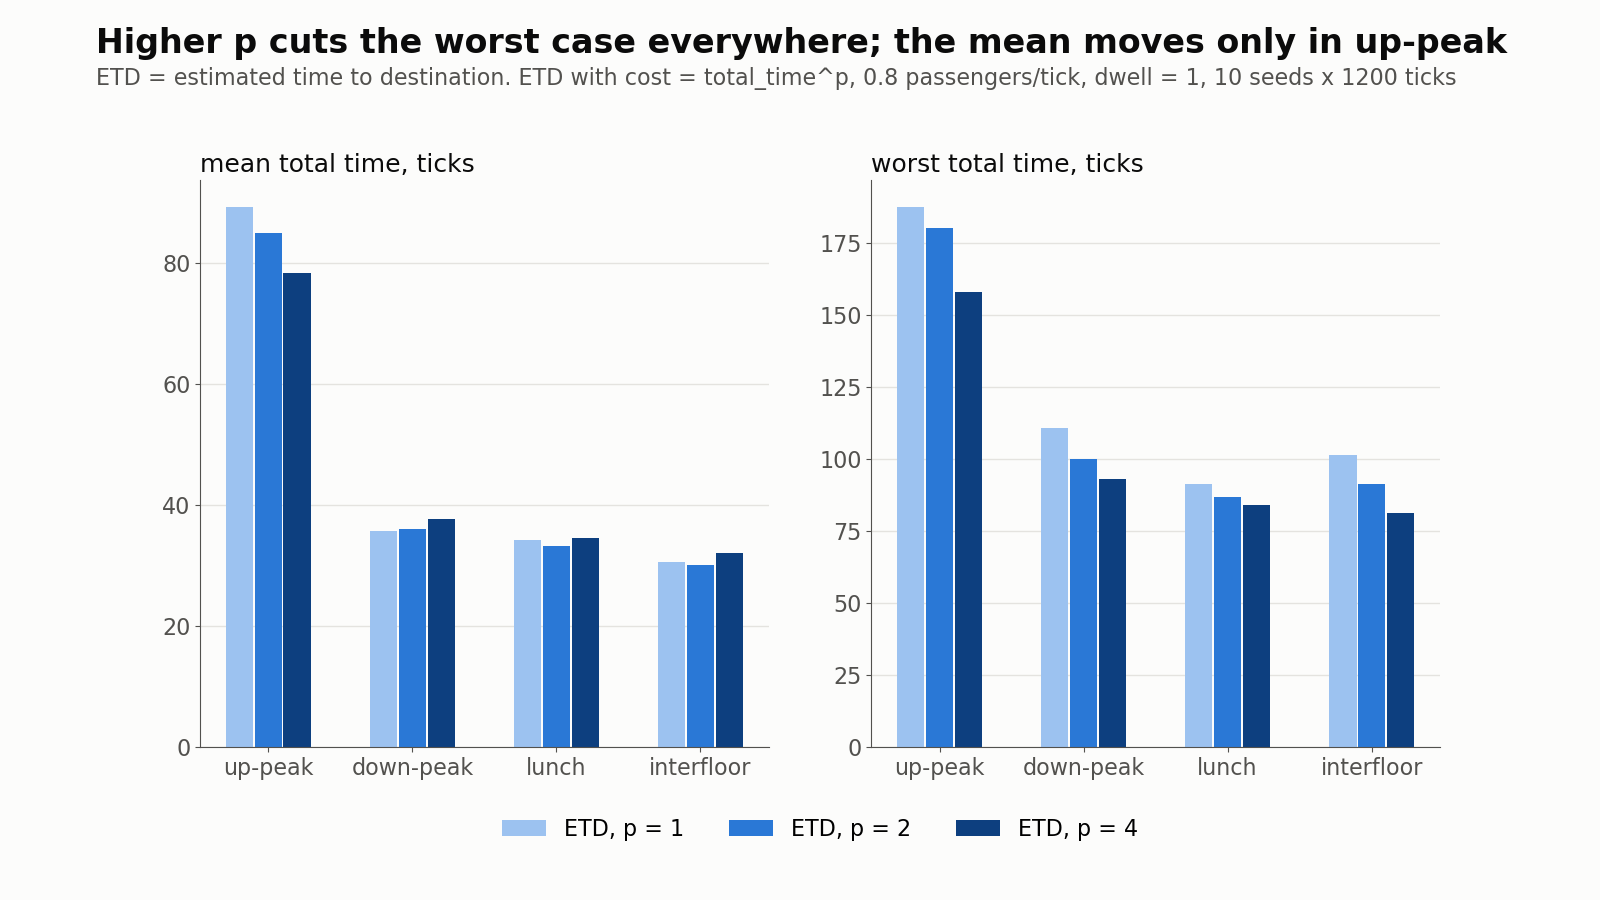
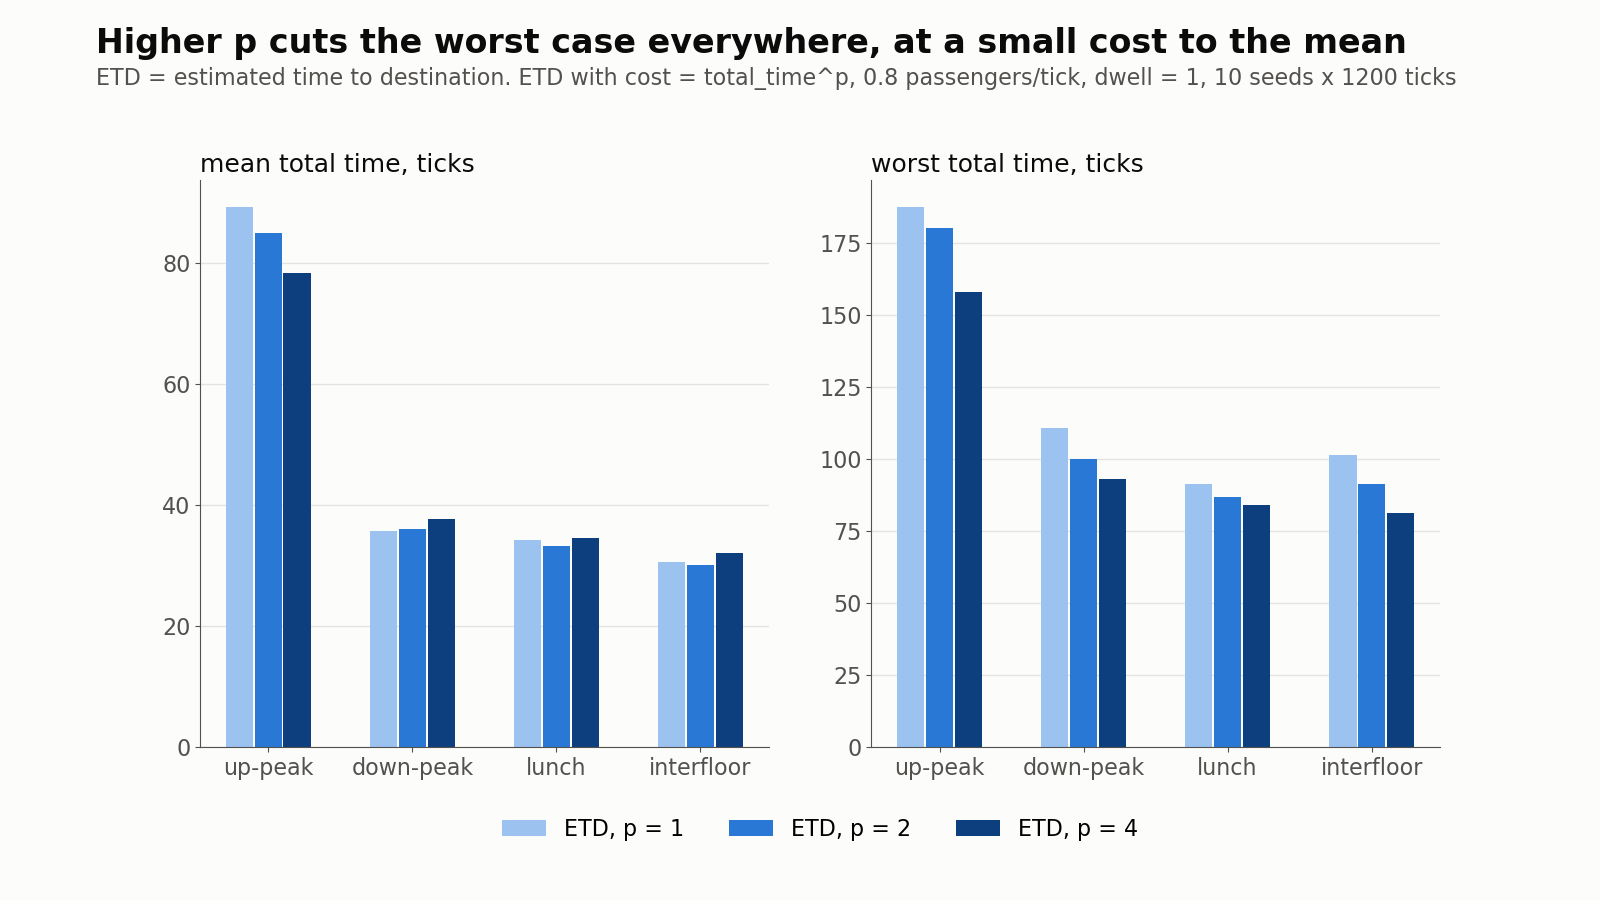
Tighten README claims and state the traffic assumptions

Changed region(s): [[0.5312, 0.0311, 0.9375, 0.0622]]

diff --git a/scripts/charts.py b/scripts/charts.py
@@ -154,7 +154,7 @@ def fairness():
         ax.set_title(label + ", ticks", loc="left", color=INK)
         ax.grid(axis="x", visible=False)
     axes[0].legend(loc="upper center", bbox_to_anchor=(1.09, -0.09), ncol=3)
-    save(fig, "fairness.png", "Higher p cuts the worst case everywhere; the mean moves only in up-peak",
+    save(fig, "fairness.png", "Higher p cuts the worst case everywhere, at a small cost to the mean",
          ETD_NOTE + "ETD with cost = total_time^p, 0.8 passengers/tick, dwell = 1, 10 seeds x 1200 ticks")
 
 

diff --git a/README.md b/README.md
@@ -2,7 +2,7 @@
 
 A discrete-time simulation of a destination-dispatch elevator system. Each passenger is assigned to a car when they call, and the assignment never changes. Time moves one floor per tick, and the simulation only sees requests whose time has come.
 
-The default scheduler is ETD (estimated time to destination). It gives the lowest average trip time of the four dispatchers I tried, in every traffic pattern, until the building nears full capacity.
+The default scheduler is ETD (estimated time to destination). In my simulations it gives the lowest average trip time of the four dispatchers I tried in every traffic pattern, except a heavy morning rush where stops take time or the building is near capacity.
 
 Python 3.10+, standard library only. Tests use pytest; the charts script uses matplotlib.
 
@@ -49,7 +49,7 @@ Each tick (`engine.py`): assign new requests → at each car, riders get off, th
 
 ## Results
 
-30 floors, 4 cars, capacity 10; 10 seeds × 1200 ticks. Mean total time in ticks at 0.8 passengers per tick:
+30 floors, 4 cars, capacity 10; 10 seeds × 1200 ticks. Mean total time in ticks at 0.8 passengers per tick, with free stops (dwell 0):
 
 | Scenario | Round robin | Nearest car | Zone | ETD |
 |---|---|---|---|---|
@@ -60,11 +60,11 @@ Each tick (`engine.py`): assign new requests → at each car, riders get off, th
 
 ![dispatchers](docs/charts/algorithms.png)
 
-**Where ETD loses: the morning rush.** When each stop costs a tick, ETD spreads lobby passengers across every car, so every car stops at many floors, and the queue grows (up-peak, dwell 1: ETD 85, zone 58). Making cars 2-3 express to floors 16-30 fixes it (57). The same happens with free stops near saturation (1.0 per tick).
+**Where ETD loses: the morning rush.** In the simulated up-peak with one-tick stops, ETD's queue keeps growing (ETD 85, zone 58). ETD places each lobby passenger wherever is best for them right now, so every car gets a mix of destinations: an ETD car leaving the lobby stops at about 8 floors and climbs to floor 28 on average, against 4-5 floors and floor 19 for a zoned car. Longer round trips mean each car carries fewer people per minute. Making cars 2-3 express to floors 16-30 brings ETD level with zoning (57), but costs 4-5 ticks at lunch, when trips go both ways. With free stops the same thing happens at a higher load, 1.0 per tick (`docs/charts/load_sweep.png`, 3 seeds × 600 ticks). The mechanism is general; the load at which it kicks in depends on my synthetic traffic.
 
 ![overload](docs/charts/overload.png)
 
-**Fairness.** With one-tick stops, raising the cost exponent from 1 to 4 cuts the worst trip by 16-20% in every pattern, without making the mean worse.
+**Fairness.** With one-tick stops, raising the cost exponent from 1 to 4 cuts the worst trip by 8-20%, and the mean rises by up to 6%. In the overloaded up-peak both improve. With free stops the exponent makes little difference. I kept p = 2 as a middle ground.
 
 ![fairness](docs/charts/fairness.png)
 
@@ -73,16 +73,18 @@ Full tables are in `results/`; more charts are in `docs/charts/`.
 ## Assumptions
 
 - Floors are 1 to n; floor 1 is the lobby. Cars start at floor 1.
-- One tick is one floor. Stops are free by default (the brief doesn't say otherwise); `--dwell` adds time per stop, and every experiment is also run at dwell 1.
+- One tick is one floor. Stops are free by default, because the brief only defines travel time; `--dwell` adds time per stop, and every experiment is also run at dwell 1.
 - In a tick a car drops off, picks a direction, boards, then moves. The log records the floor before the move.
 - Passengers board only their assigned car, only when it's going their way, first come first served.
 - Express cars only get trips where they serve both floors.
 - Bad input (floor out of range, source = dest, duplicate id, negative time) is rejected up front.
-- Synthetic traffic uses Poisson arrivals and fixed trip mixes per pattern.
+- Synthetic traffic uses Poisson arrivals and trip mixes I chose (e.g. up-peak: 85% lobby to upper floors, 10% between upper floors, 5% down to the lobby). They are plausible, not measured.
+- One building is tested: 30 floors, 4 cars, capacity 10. Other sizes may rank the dispatchers differently.
+- A passenger becomes overdue after 3 × floors ticks, about one and a half round trips of an empty car. That threshold is a judgement call; it's configurable.
 
 ## Trade-offs
 
-- **ETD** optimises the brief's objective directly, but it is greedy: it can't see future arrivals, which costs capacity near saturation.
+- **ETD** optimises the brief's objective (squared, to favour the worst trips), but it is greedy: it can't see future arrivals, which costs capacity near saturation.
 - **LOOK** leaves little to choose once riders are aboard. A look-ahead router I tried gained 1-4% and nothing on top of ETD, so I removed it.
 - **Forecasts reuse the engine's code**, so they can't drift from the real rules, at the cost of speed.
 - **The reserved seat** costs one seat, only while someone is overdue. My first version, which let only the overdue passenger board, wrecked throughput.
@@ -91,7 +93,7 @@ Full tables are in `results/`; more charts are in `docs/charts/`.
 
 - ETD slows down when one car has a long queue (each forecast replays it tick by tick).
 - Idle cars stay where they stop; there is no parking.
-- Constant speed, fixed door time, synthetic traffic: good for comparing dispatchers, not for absolute predictions.
+- Constant speed, fixed door time, synthetic traffic, one building size: good for comparing dispatchers, not for absolute predictions.
 
 ## With more time
 
